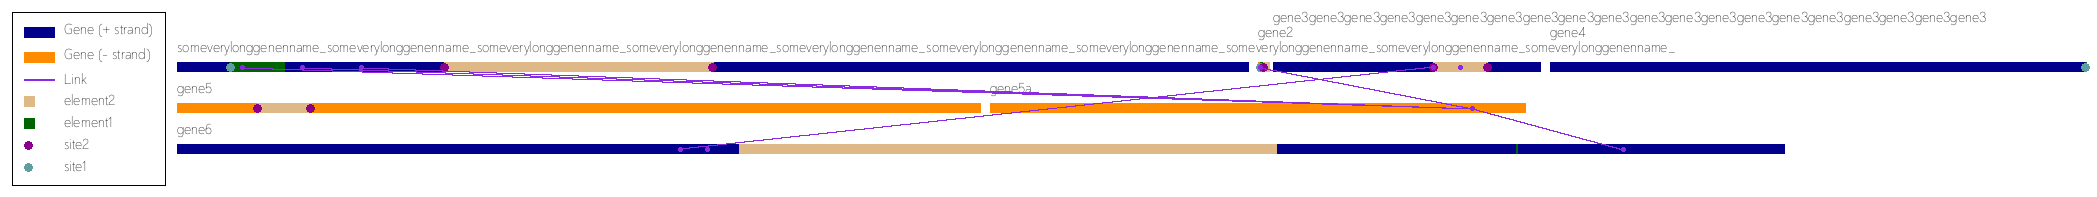
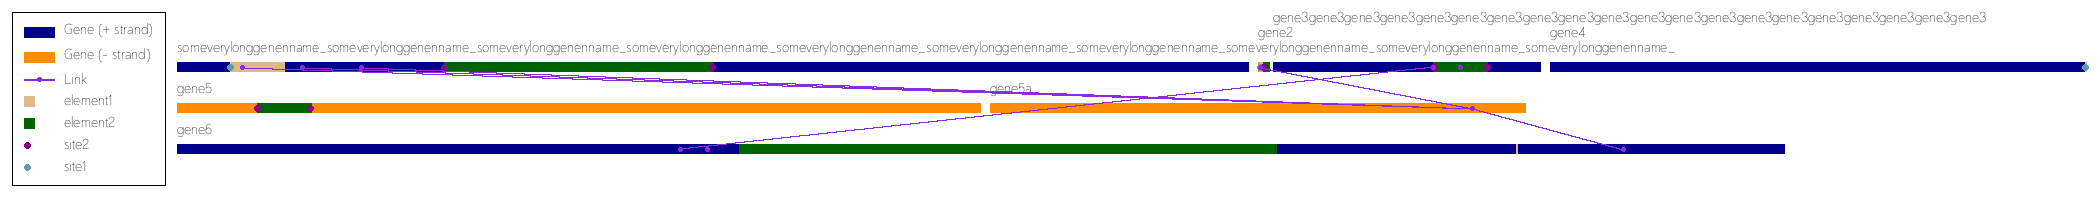
Slight legend and site scaling improvements

diff --git a/geneLinkDraw.py b/geneLinkDraw.py
@@ -451,6 +451,8 @@ class Legend:
         line width of drawn genes in pixels.
     linkwidth : int
         line width of drawn links in pixels.
+    linkradius: int
+        radius of drawn link sites in pixels.
     siteradius : int
         radius of drawn sites ellipses in pixels.
     fontsize : int
@@ -468,6 +470,7 @@ class Legend:
     outerBox: bool
     genewidth: int
     linkwidth: int
+    linkradius: int
     siteradius: int
     fontsize: int
     font: ImageFont.FreeTypeFont
@@ -559,6 +562,11 @@ class Legend:
             self.drawInstructions.append({
                 'method': 'line',
                 'kwargs': {'xy': (x, ylink, x+linelen, ylink), 'fill': col, 'width': self.linkwidth}
+            })
+            self.drawInstructions.append({
+                'method': 'ellipse',
+                'kwargs': {'xy': (x+(linelen//2)-self.linkradius, ylink-self.linkradius, 
+                                  x+(linelen//2)+self.linkradius, ylink+self.linkradius), 'fill': col, 'width': 1}
             })
             
             self.drawInstructions.append({
@@ -754,8 +762,8 @@ def draw(genes: list[Gene], links: list[Link], fontpath: str = None,
         
     legend = Legend(genecol_fwd=genefwdcol, genecol_rev=generevcol, lcol=linkcol, elementcols=elementcols,
                     sitecols=sitecols, innerMargin=genewidth, outerMargin=outerMargin, outerBox=True, 
-                    genewidth=genewidth, linkwidth=linkwidth, siteradius=math.ceil(genewidth/3), 
-                    fontsize=fontsize, font=font)
+                    genewidth=genewidth, linkwidth=linkwidth, linkradius=math.ceil(linkwidth/2) + 1,
+                    siteradius=math.ceil(genewidth/4), fontsize=fontsize, font=font)
     legendwidth, legendheight = legend.getDimensions()
     legend.setCoordinates(outerMargin, outerMargin)
 
@@ -827,7 +835,7 @@ def draw(genes: list[Gene], links: list[Link], fontpath: str = None,
     drw = ImageDraw.Draw(img) # drawing context    
     
     # draw genes and elements
-    siteradius = math.ceil(genewidth/3) #+ 1
+    siteradius = math.ceil(genewidth/4)
     for row in generows:
         for gene in row:
             gdi: GeneDrawInfo = gene.drawInfo
@@ -848,7 +856,7 @@ def draw(genes: list[Gene], links: list[Link], fontpath: str = None,
 
     # draw links
     if links is not None:
-        radius = math.ceil(linkwidth/2) + 1
+        linkradius = math.ceil(linkwidth/2) + 1
         geneToRow = {gene.id: r for r, row in enumerate(generows) for gene in row}
         for li, link in enumerate(links):
             lcol = linkcols[li] if linkcols is not None else linkcol
@@ -868,7 +876,8 @@ def draw(genes: list[Gene], links: list[Link], fontpath: str = None,
                     anchorsByRow[r].append(gdi.linkAnchors[link.pos[i]])
 
                 for a in anchorsByRow[r]:
-                    drw.ellipse((a[0]-radius, a[1]-radius, a[0]+radius, a[1]+radius), fill=lcol, outline=lcol, width=1)
+                    drw.ellipse((a[0]-linkradius, a[1]-linkradius, a[0]+linkradius, a[1]+linkradius), 
+                                fill=lcol, outline=lcol, width=1)
 
             if link.connect:
                 lrows = sorted(anchorsByRow.keys())
